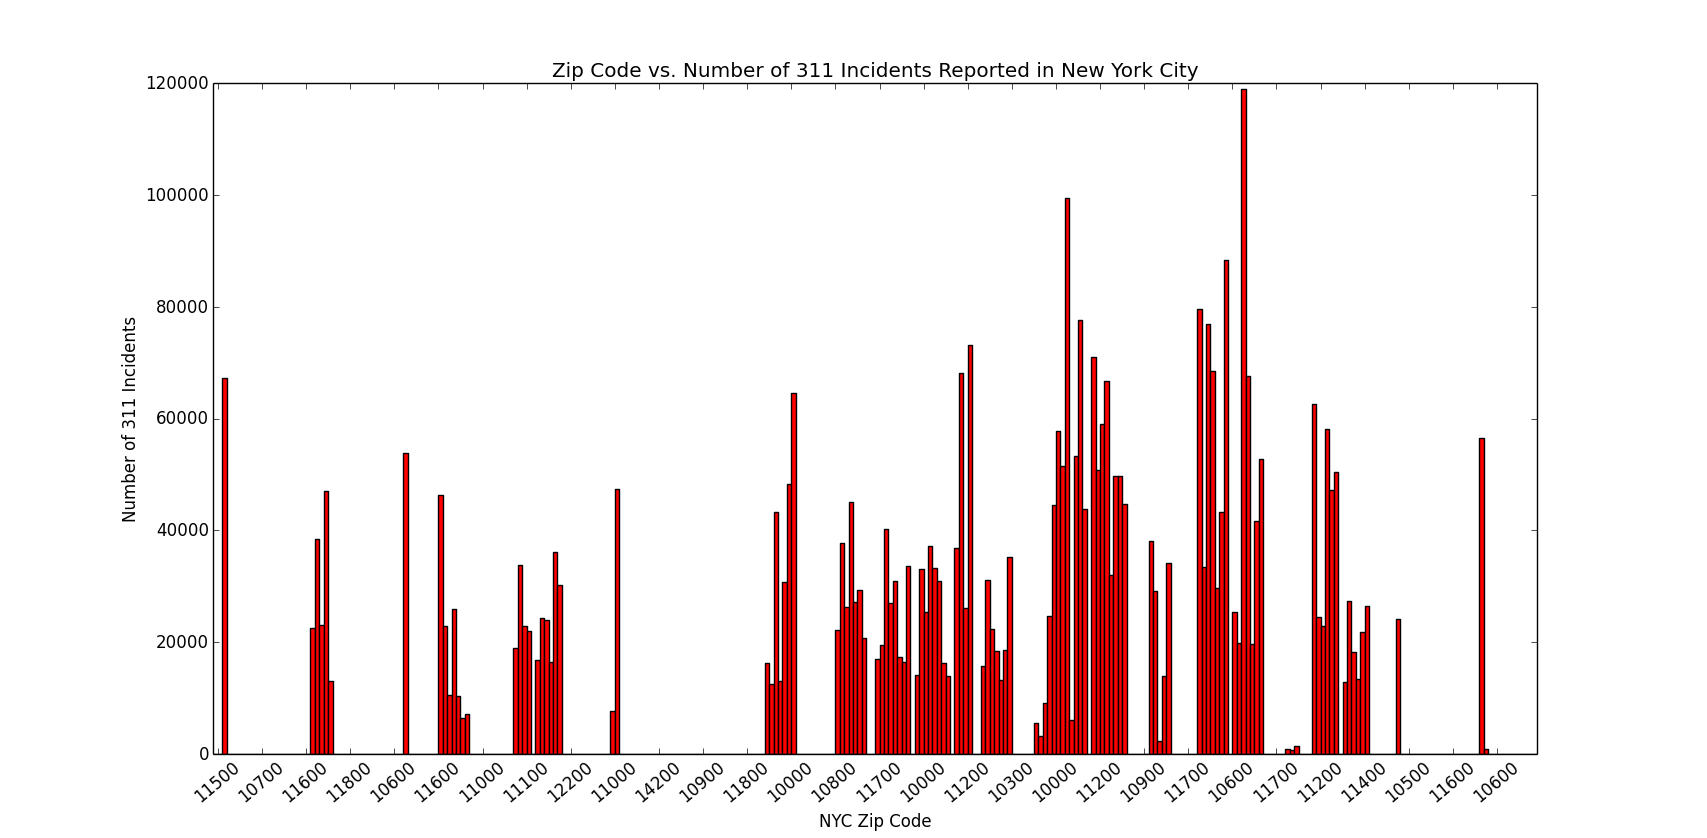
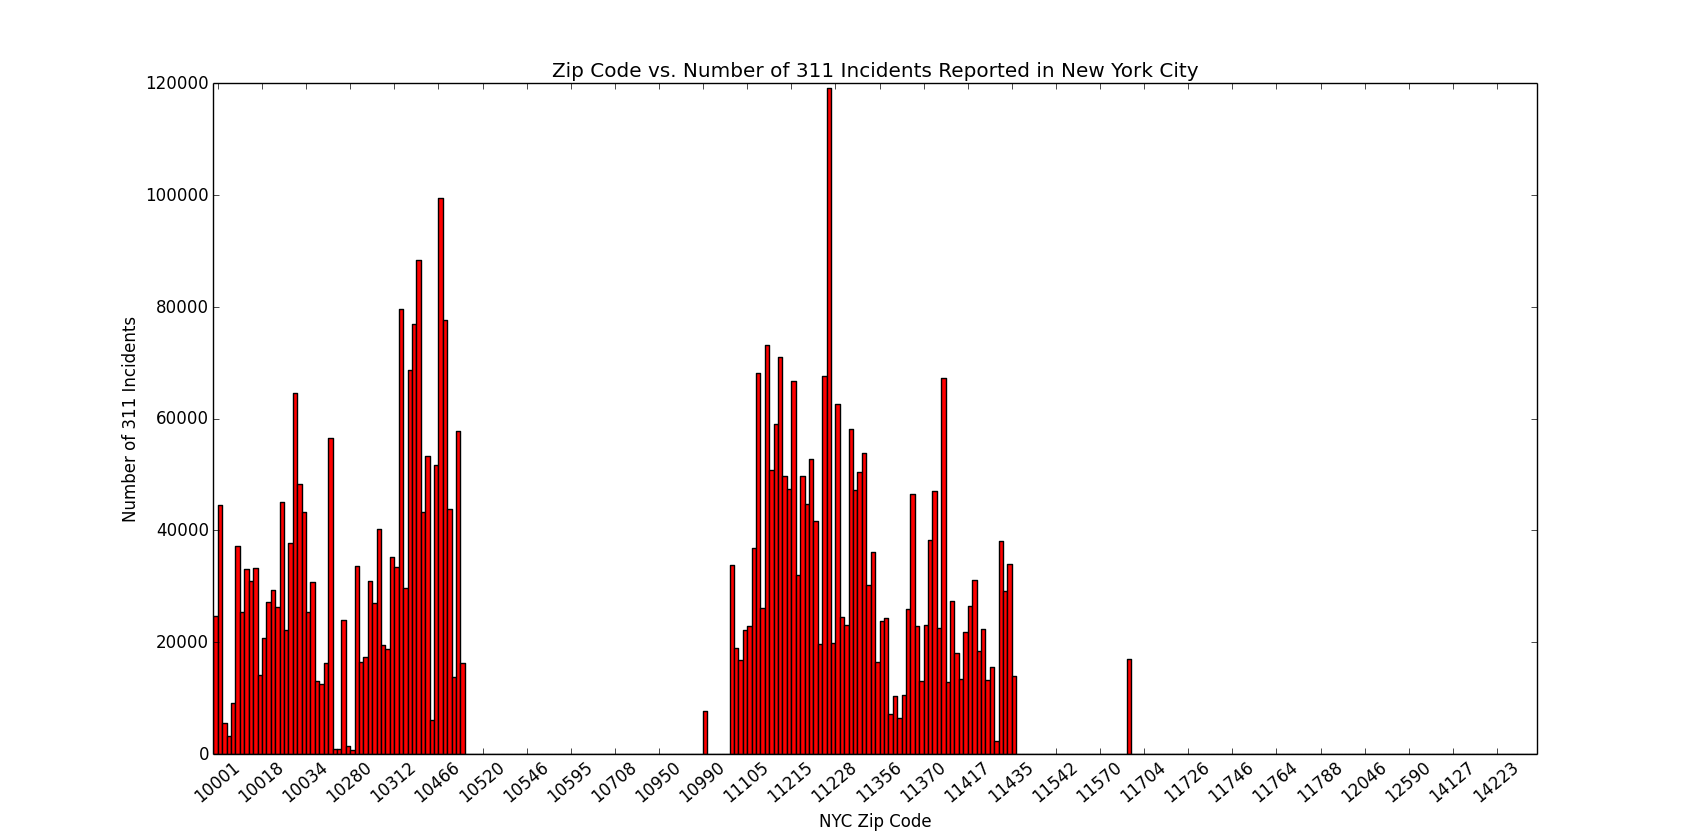
Second Commit, sorted zips

Changed region(s): [[0.4036, 0.1241, 0.9004, 0.9618], [0.1242, 0.2482, 0.4036, 0.9618], [0.652, 0.9308, 0.6831, 0.9618]]

diff --git a/ajm777/assignment6/part_a.py b/ajm777/assignment6/part_a.py
@@ -6,6 +6,7 @@
 import csv
 import matplotlib.pyplot as plt
 import numpy as np
+from collections import OrderedDict
 
 data_temp = open('labeled_data.csv','r')
 data = csv.DictReader(data_temp,['# zipcode','population','num_incidents'])
@@ -21,10 +22,24 @@ for item in data:
 del zips[0]
 del pop[0]
 del num_inc[0]
-
 zips = [int(float(val)) for val in zips]
 pop = [int(float(val)) for val in pop]
 num_inc = [int(float(val)) for val in num_inc]
+
+#__Create dictionary for incidents by zip code to add multiple logs for the same zip code and be able to sort
+zips_dict = {}
+i = 0
+while i < len(zips):
+    zips_dict[zips[i]]= num_inc[i]
+    i= i + 1
+zips_dict = OrderedDict(sorted(zips_dict.items()))
+
+#Create new lists to chart
+zips = []
+inc_by_zip = []
+for k, v in zips_dict.items():
+    zips.append(k)
+    inc_by_zip.append(v)
 
 plt.scatter(pop, num_inc, color='g')
 plt.title('Population vs. Number of 311 Incidents in NYC by Zip Code')
@@ -35,9 +50,9 @@ plt.ylabel('Number of 311 Incidents')
 plt.show()
 
 dummy_list = np.arange(0,len(zips), 1)
-plt.bar(dummy_list, num_inc, 1, color='r')
+plt.bar(dummy_list, inc_by_zip, 1, color='r')
 plt.title('Zip Code vs. Number of 311 Incidents Reported in New York City')
-zip_ticks = zips[::10]  
+zip_ticks = zips[::10]
 plt.xticks(np.arange(1,len(zips),10),zip_ticks, rotation=40)
 plt.xlabel('NYC Zip Code')
 plt.ylabel('Number of 311 Incidents')
@@ -46,7 +61,7 @@ plt.show()
 #_____Observed Phenomena
 """
 From the graph of population vs. number of incidents, you can clearly see that 
-a general trend exists between increasing population and increasing number of 
+a general linear trend exists between increasing population and increasing number of 
 311 incidents. So, in a predictive model, the more people in a region, the 
 more complaints are received. 
 
